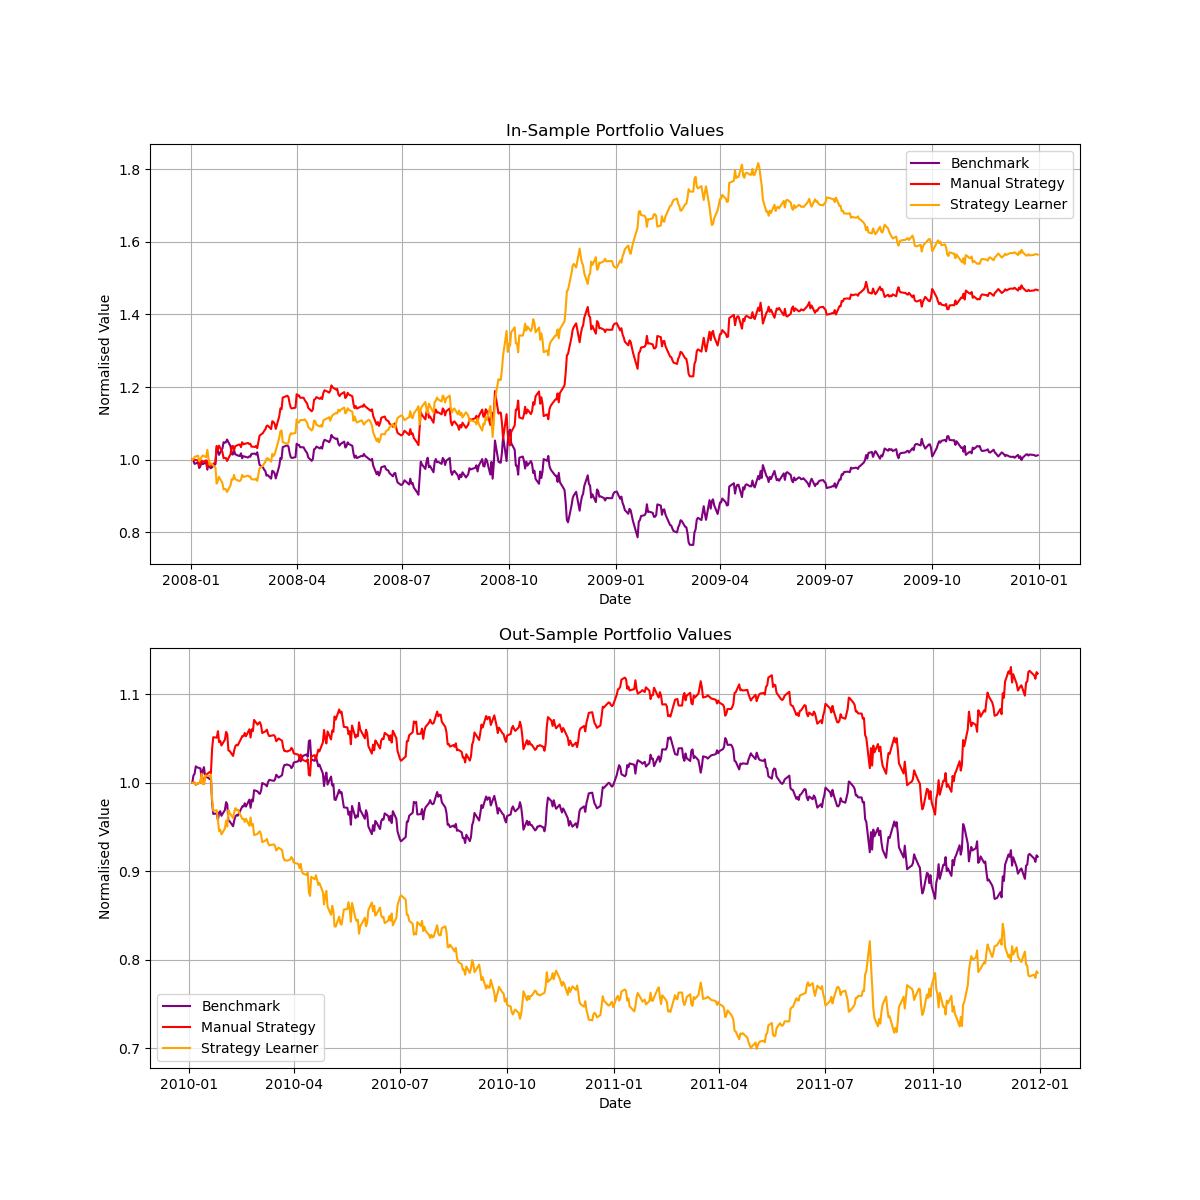
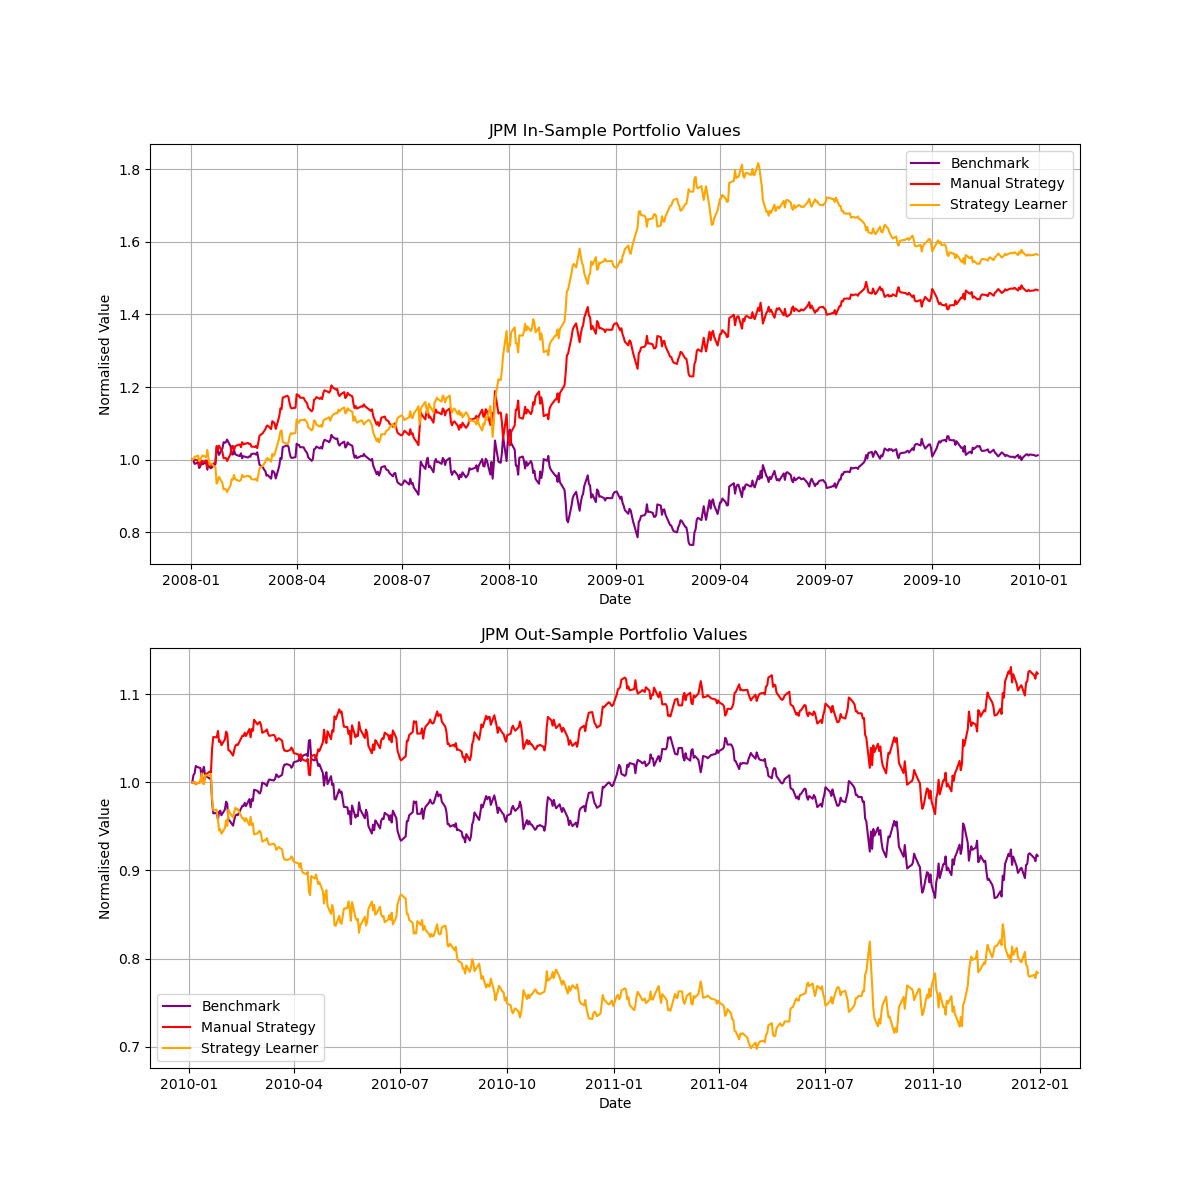
create controller and exp 2

diff --git a/strategy_evaluation/testproject.py b/strategy_evaluation/testproject.py
@@ -21,8 +21,10 @@ def study_group():
     return "sphadnis9"
 
 if __name__ == "__main__":
+    st = time.time()
     rand.seed(904081199)
     np.random.seed(904081199)
+    results = open("p8_results.txt", "w")
 
     symbol = "JPM"
     is_sd = dt.datetime(2008, 1, 1)
@@ -38,6 +40,24 @@ if __name__ == "__main__":
     ms_results = manualstrategy.run(symbol, is_sd=is_sd, is_ed=is_ed, os_sd=os_sd, os_ed=os_ed, sv=sv)
     m_is_pv, m_os_pv, is_b_pv, os_b_pv = ms_results
 
+    results.write("Manual Strategy Stats:")
+    results.write("\nIn-sample:")
+    stats = compute_stats(m_is_pv)
+    results.write(f"\nCum Ret: {stats[0]}")
+    results.write(f"\nAvg Daily Ret: {stats[1]}")
+    results.write(f"\nStd Dev of Daily Ret: {stats[2]}")
+    results.write(f"\nSharpe Ratio: {stats[3]}")
+
+    results.write("\n")
+    results.write("\nOut-sample: ")
+    stats = compute_stats(m_os_pv)
+    results.write(f"\nCum Ret: {stats[0]}")
+    results.write(f"\nAvg Daily Ret: {stats[1]}")
+    results.write(f"\nStd Dev of Daily Ret: {stats[2]}")
+    results.write(f"\nSharpe Ratio: {stats[3]}")
+
+    results.write("\n\n\n")
+
     # Run Experiment 1
     s_is_pv, s_os_pv = experiment1.run(
         symbol=symbol,
@@ -51,7 +71,65 @@ if __name__ == "__main__":
         impact=impact
     )
 
+    results.write("Experiment 1 <> Strategy Learner Stats:")
+    results.write("\nIn-sample:")
+    stats = compute_stats(s_is_pv)
+    results.write(f"\nCum Ret: {stats[0]}")
+    results.write(f"\nAvg Daily Ret: {stats[1]}")
+    results.write(f"\nStd Dev of Daily Ret: {stats[2]}")
+    results.write(f"\nSharpe Ratio: {stats[3]}")
 
+    results.write("\n")
+    results.write("Out-sample: ")
+    stats = compute_stats(s_os_pv)
+    results.write(f"\nCum Ret: {stats[0]}")
+    results.write(f"\nAvg Daily Ret: {stats[1]}")
+    results.write(f"\nStd Dev of Daily Ret: {stats[2]}")
+    results.write(f"\nSharpe Ratio: {stats[3]}")
+
+    results.write("\n\n\n")
+
+    # Run Experiment 2
+    # 1: impact = 0
+    # 2: impact = 0.005
+    # 3: impact = 0.01
+    pv1, pv2, pv3 = experiment2.run(
+        symbol=symbol,
+        is_sd = is_sd,
+        is_ed = is_ed,
+        sv=sv
+    )
+
+    results.write("\nExperiment 2 <> Impact v/s Returns:")
+    results.write("\nImpact = 0: ")
+    stats = compute_stats(pv1)
+    results.write(f"\nCum Ret: {stats[0]}")
+    results.write(f"\nAvg Daily Ret: {stats[1]}")
+    results.write(f"\nStd Dev of Daily Ret: {stats[2]}")
+    results.write(f"\nSharpe Ratio: {stats[3]}")
+
+    results.write("\n")
+    results.write("\nImpact = 0.005: ")
+    stats = compute_stats(pv2)
+    results.write(f"\nCum Ret: {stats[0]}")
+    results.write(f"\nAvg Daily Ret: {stats[1]}")
+    results.write(f"\nStd Dev of Daily Ret: {stats[2]}")
+    results.write(f"\nSharpe Ratio: {stats[3]}")
+
+    results.write("\n")
+    results.write("\nImpact = 0.01: ")
+    stats = compute_stats(pv3)
+    results.write(f"\nCum Ret: {stats[0]}")
+    results.write(f"\nAvg Daily Ret: {stats[1]}")
+    results.write(f"\nStd Dev of Daily Ret: {stats[2]}")
+    results.write(f"\nSharpe Ratio: {stats[3]}")
+
+    results.write("\n\n\n")
+
+    results.close()
+
+    et = time.time()
+    print(et-st)
 
     # ROUGH
 

diff --git a/strategy_evaluation/experiment2.py b/strategy_evaluation/experiment2.py
@@ -17,3 +17,42 @@ def author():
 
 def study_group():
     return "sphadnis9"
+
+def run(
+    symbol,
+    is_sd,
+    is_ed,
+    sv
+):
+    commission = 0
+    learner_1 = StrategyLearner(verbose=False, impact=0, commission=commission)
+    learner_2 = StrategyLearner(verbose=False, impact=0.005, commission=commission)
+    learner_3 = StrategyLearner(verbose=False, impact=0.01, commission=commission)
+
+    learner_1.add_evidence(symbol=symbol, sd=is_sd, ed=is_ed, sv=sv)
+    learner_2.add_evidence(symbol=symbol, sd=is_sd, ed=is_ed, sv=sv)
+    learner_3.add_evidence(symbol=symbol, sd=is_sd, ed=is_ed, sv=sv)
+
+    trades_1 = learner_1.testPolicy(symbol=symbol, sd=is_sd, ed=is_ed, sv=sv)
+    trades_2 = learner_2.testPolicy(symbol=symbol, sd=is_sd, ed=is_ed, sv=sv)
+    trades_3 = learner_3.testPolicy(symbol=symbol, sd=is_sd, ed=is_ed, sv=sv)
+
+    pv1 = compute_portvals(trades_1, start_val=sv, commission=commission, impact=0)
+    pv2 = compute_portvals(trades_2, start_val=sv, commission=commission, impact=0.005)
+    pv3 = compute_portvals(trades_3, start_val=sv, commission=commission, impact=0.01)
+
+    npv1 = pv1 / pv1.iloc[0]
+    npv2 = pv2 / pv2.iloc[0]
+    npv3 = pv3 / pv3.iloc[0]
+
+    fig, (ax1, ax2, ax3, ax4) = plt.subplots(nrows=4, ncols=1, figsize=(12,20), gridspec_kw={'height_ratios': [2, 1, 1, 1]})
+    ax1.plot(npv1, label='Impact = 0')
+    ax1.plot(npv2, label='Impact = 0.005')
+    ax1.plot(npv3, label='Impact = 0.01')
+    ax1.legend()
+    ax1.grid()
+    ax1.set(xlabel='Date', ylabel='Normalised Portfolio Value', title='JPM Strategy Learner with various Impacts')
+    fig.savefig("images/experiment2.png")
+    plt.close()
+
+    return pv1, pv2, pv3

diff --git a/strategy_evaluation/experiment1.py b/strategy_evaluation/experiment1.py
@@ -58,14 +58,14 @@ def run(
     insample.plot(s_is_pv, color = "orange", label = "Strategy Learner")
     insample.grid()
     insample.legend()
-    insample.set(xlabel='Date', ylabel='Normalised Value', title='In-Sample Portfolio Values')
+    insample.set(xlabel='Date', ylabel='Normalised Value', title='JPM In-Sample Portfolio Values')
 
     outsample.plot(os_b_pv, color="purple", label="Benchmark")
     outsample.plot(m_os_pv, color="red", label="Manual Strategy")
     outsample.plot(s_os_pv, color="orange", label="Strategy Learner")
     outsample.grid()
     outsample.legend()
-    outsample.set(xlabel='Date', ylabel='Normalised Value', title='Out-Sample Portfolio Values')
+    outsample.set(xlabel='Date', ylabel='Normalised Value', title='JPM Out-Sample Portfolio Values')
 
     fig.savefig("images/experiment1.png")
     plt.close()

diff --git a/strategy_evaluation/StrategyLearner.py b/strategy_evaluation/StrategyLearner.py
@@ -118,7 +118,7 @@ class StrategyLearner(object):
 
         costs = 0
         if action != 0:
-            costs = self.impact + self.commission/price.loc[date]
+            costs = self.impact + self.commission/yesterday_price.loc[date] # Prev this was commission/price.loc[date]
 
         reward = holdings*(price.loc[date]/yesterday_price.loc[date] - 1) - costs
 
